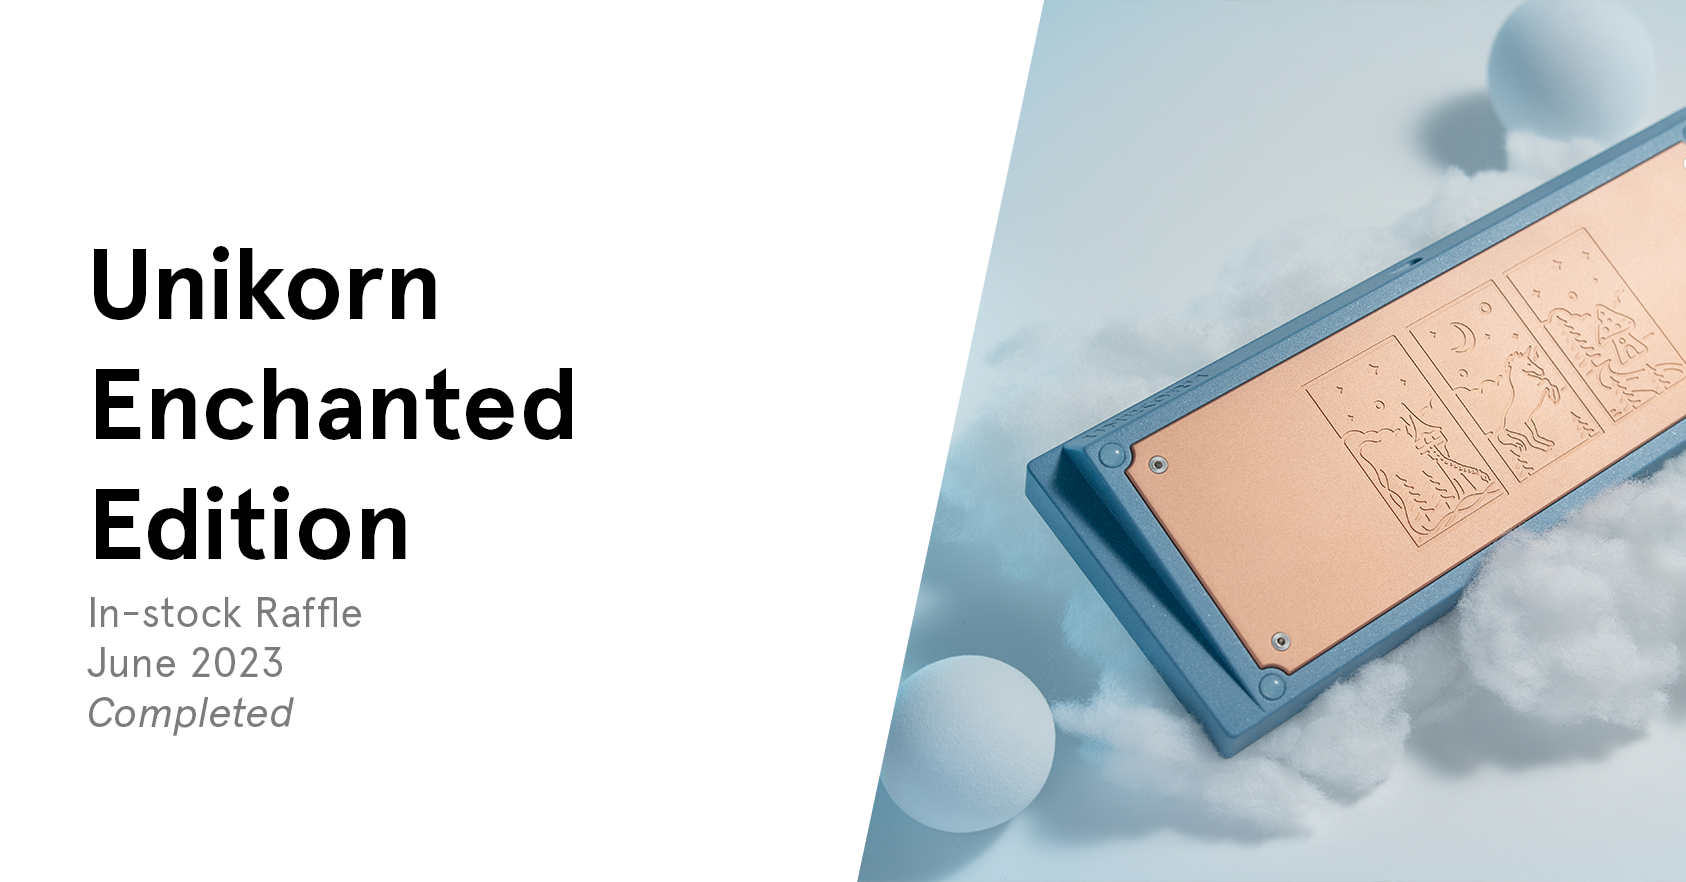
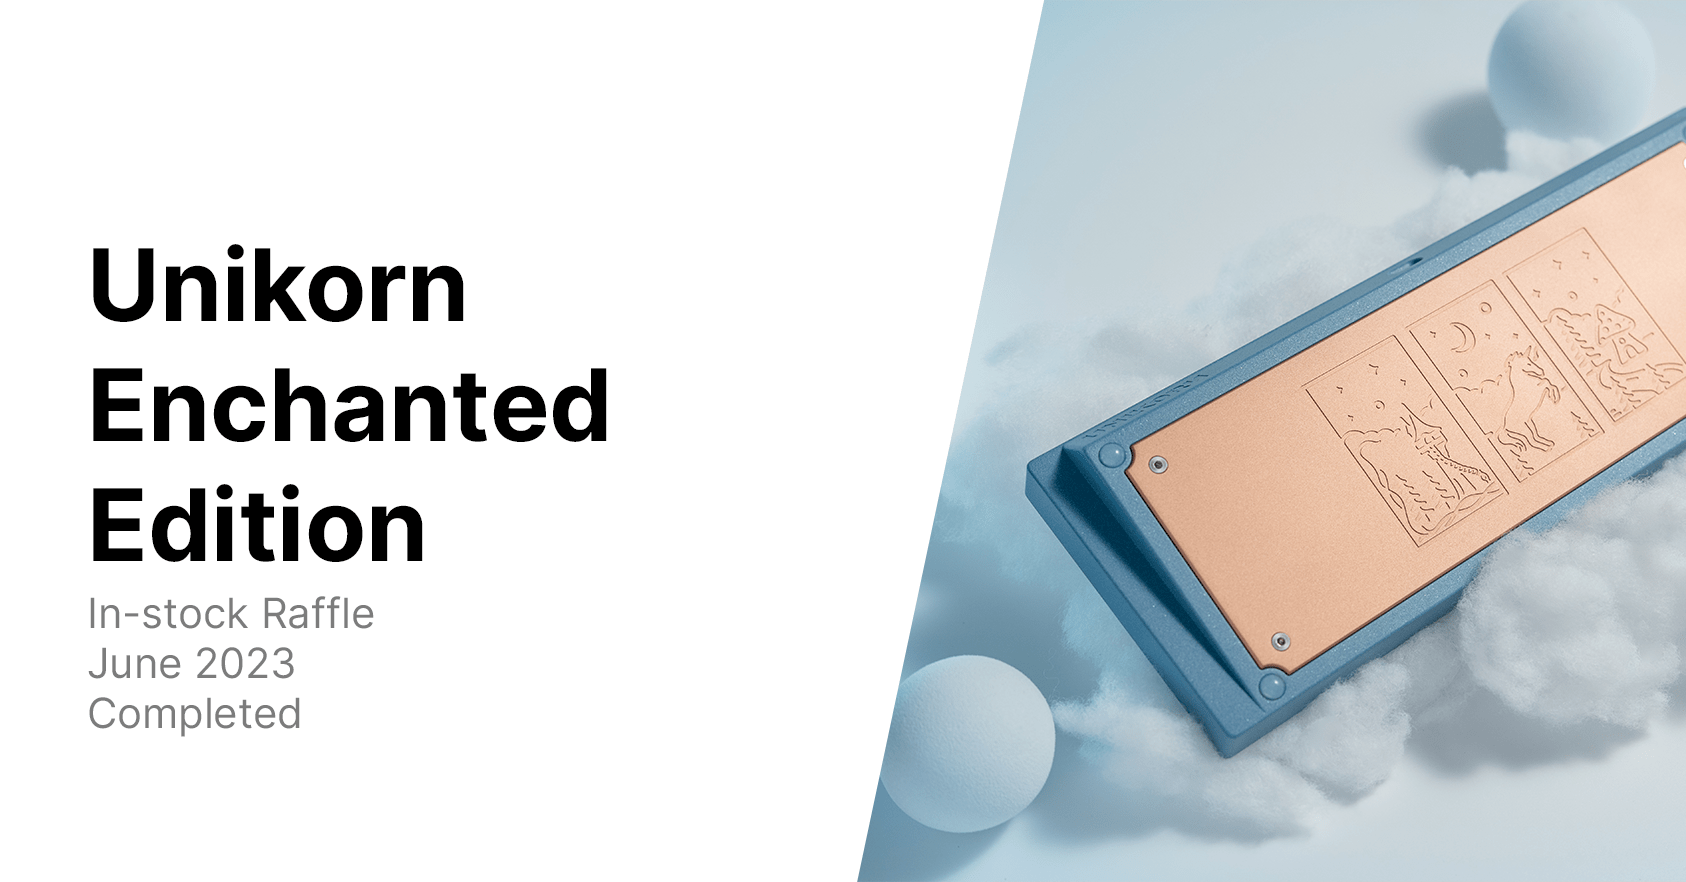
feat: Change font and images

diff --git a/src/pages/_app.tsx b/src/pages/_app.tsx
@@ -1,0 +1,12 @@
+import "@/styles/style.css";
+import { AppProps } from "next/app";
+import { Inter } from "next/font/google";
+
+const inter = Inter({ subsets: ["latin"] });
+export default function App({ Component, pageProps }: AppProps) {
+  return (
+    <main className={inter.className}>
+      <Component {...pageProps} />
+    </main>
+  );
+}
